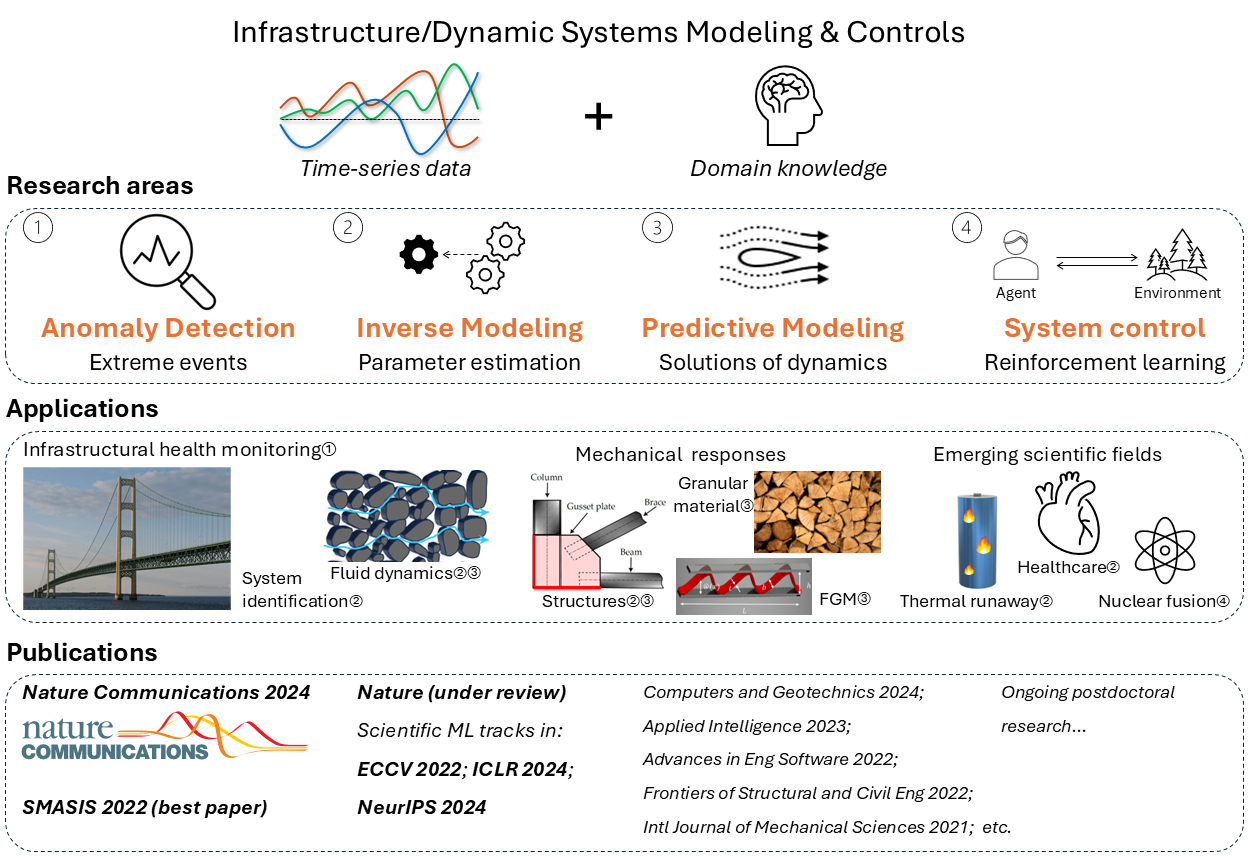
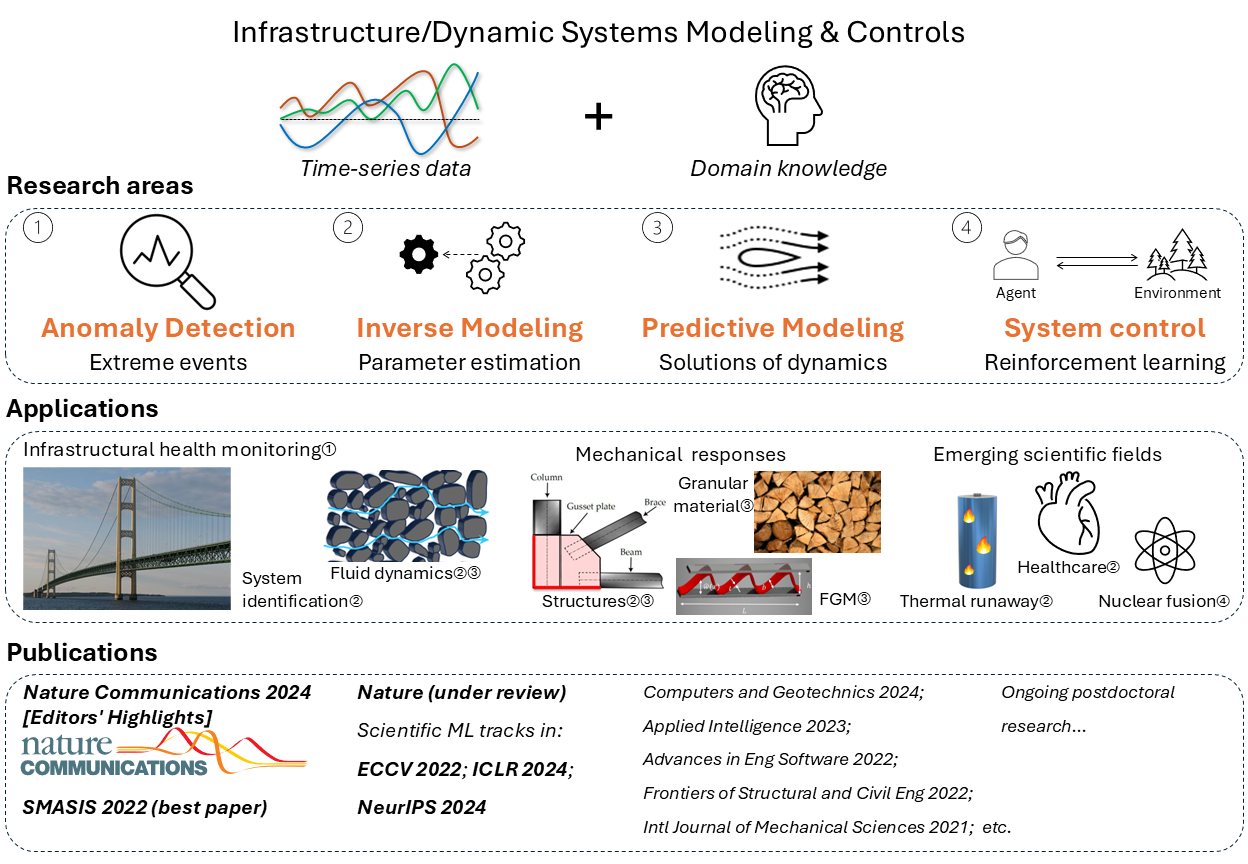
update

Changed region(s): [[0.0, 0.7812, 0.25, 0.9062]]

diff --git a/_portfolio/portfolio-1.md b/_portfolio/portfolio-1.md
@@ -4,7 +4,7 @@ excerpt: "Our work is accepted by Nature Communications! Please check out the [A
 collection: portfolio
 ---
 
-Our work is pubulished at <strong>Nature Communications</strong>! Please check out the [Paper](https://www.nature.com/articles/s41467-024-52501-4), [Arxiv page](https://arxiv.org/abs/2402.15492), and [GitHub repository](https://github.com/human-analysis/midas-shm).
+Our work is pubulished at <strong>Nature Communications</strong> and selected as [[Editors' Highlights]](https://www.nature.com/collections/fhffefjdca#:~:text=Mechanics%2Dinformed%20autoencoder%20enables%20automated%20detection%20and%20localization%20of%20unforeseen%20structural%20damage)! Please check out the [Paper](https://www.nature.com/articles/s41467-024-52501-4) and [GitHub repository](https://github.com/human-analysis/midas-shm).
 -----
 
 <figure>
